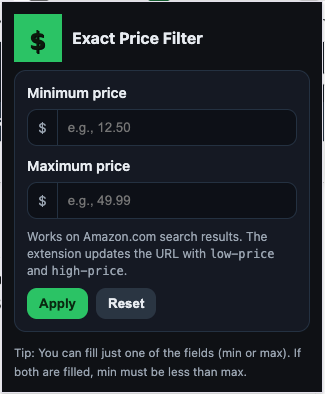
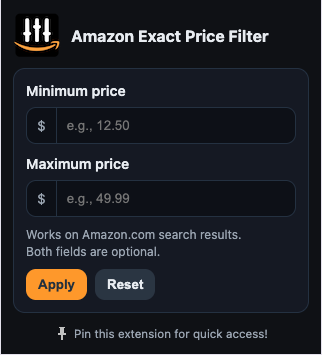
Restyle the extension to match Amazon

diff --git a/popup.html b/popup.html
@@ -3,14 +3,14 @@
 <head>
   <meta charset="utf-8" />
   <meta name="viewport" content="width=device-width, initial-scale=1" />
-  <title>Amazon Exact Price Filter</title>
+  <title>Amazon.com Exact Price Filter</title>
   <link rel="stylesheet" href="popup.css" />
 </head>
 <body>
   <main>
     <header>
       <img src="icons/icon-48.png" alt="" />
-      <h1>Exact Price Filter</h1>
+      <h1>Amazon Exact Price Filter</h1>
     </header>
 
     <form id="price-form">
@@ -30,7 +30,7 @@
         </div>
       </div>
 
-      <p class="hint">Works on Amazon.com search results. The extension updates the URL with <code>low-price</code> and <code>high-price</code>.</p>
+      <p class="hint">Works on Amazon.com search results.<br/>Both fields are optional.</p>
 
       <div id="error" role="alert" aria-live="polite"></div>
       <div id="status" aria-live="polite"></div>
@@ -43,7 +43,7 @@
 
     <footer>
       <small>
-        Tip: You can fill just one of the fields (min or max). If both are filled, min must be less than max.
+        <p class="tip">Pin this extension for quick access!</p>
       </small>
     </footer>
   </main>

diff --git a/popup.css b/popup.css
@@ -3,8 +3,8 @@
   --card: #151923;
   --text: #e8ecf1;
   --muted: #9aa4b2;
-  --accent: #22c55e;
-  --accent-contrast: #08290f;
+  --accent: #FF9900;
+  --accent-contrast: #232F3E;
   --danger: #ef4444;
   --border: #243042;
 }
@@ -81,6 +81,15 @@ input {
   margin: 4px 0 8px;
 }
 
+.tip {
+    display: inline;
+    background-image: url('pin.png');
+    background-size: 16px;
+    background-repeat: no-repeat;
+    background-position: center left;
+    padding-left: 20px;
+}
+
 #error {
   display: none;
   background: #2a1214;
@@ -94,9 +103,9 @@ input {
 
 #status {
   display: none;
-  background: #112617;
-  color: #b0f2c0;
-  border: 1px solid #1e3c27;
+  background: #332200;
+  color: #ffcc80;
+  border: 1px solid #4d3300;
   border-radius: 8px;
   padding: 8px;
   margin: 8px 0;
@@ -128,4 +137,5 @@ button.secondary {
 footer {
   margin-top: 10px;
   color: var(--muted);
+  text-align: center;
 }

diff --git a/README.md b/README.md
@@ -16,7 +16,7 @@ It is intended for anyone who dislikes the newer price slider control and prefer
 1. Click the extension icon to open the popup.
 1. Enjoy a better shopping experience!
 
-> Tip: Pin the extension for quick access.
+> Tip: Pin the extension for quick access!
 
 ## Use
 
